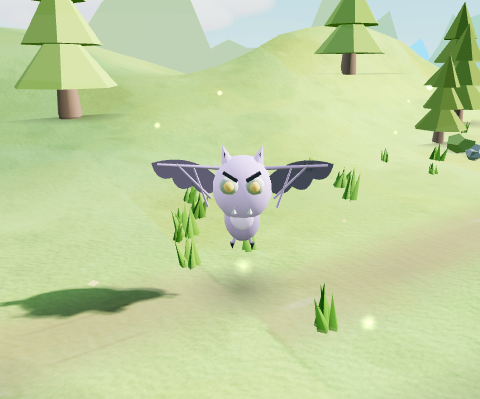
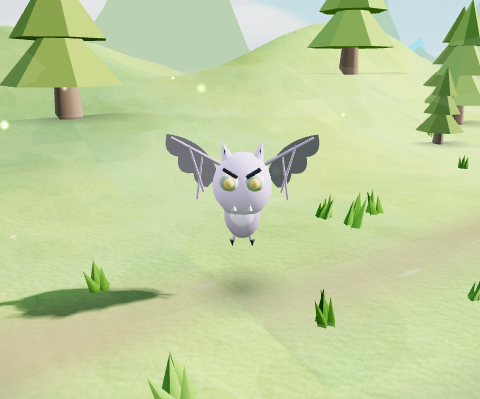
임프 날개 확대·등 뒤 소켓 재배치(몸통 관통 해소)+반투명, 박쥐 날개막 투명도 0.76(불투명 판자 오독)

diff --git a/web/js/scene3d.js b/web/js/scene3d.js
@@ -2968,7 +2968,7 @@ const Scene3D = {
                 cn(0.018, 0.06, s * 0.05, 0.5, 0.14, new THREE.MeshLambertMaterial({ color: 0xffffff })); // 송곳니
                 const wing = new THREE.Group();
                 wing.position.set(s * 0.17, 0.65, 0);
-                const wm = new THREE.Mesh(wingGeo(0.44, 0.3), new THREE.MeshLambertMaterial({ color: base.clone().offsetHSL(0.015, 0.06, -0.06), side: THREE.DoubleSide, transparent: true, opacity: 0.88 })); // 반투명 막 — 판자 오독 제거
+                const wm = new THREE.Mesh(wingGeo(0.44, 0.3), new THREE.MeshLambertMaterial({ color: base.clone().offsetHSL(0.015, 0.06, -0.06), side: THREE.DoubleSide, transparent: true, opacity: 0.76 })); // 반투명 막 — 0.88은 사실상 불투명 판자로 읽힘 (비평가 6.8 8번)
                 wm.scale.x = s;
                 const wBone = mk(new THREE.CylinderGeometry(0.014, 0.01, 0.42, 5), dark); // 앞전 뼈대
                 wBone.rotation.z = s * (Math.PI / 2 - 0.18);
@@ -3198,12 +3198,12 @@ const Scene3D = {
                 bone1.position.set(s * 0.09, 0.05, 0); bone1.rotation.z = s * 1.1;
                 const bone2 = mk(new THREE.CylinderGeometry(0.009, 0.006, 0.16, 5), skinD);
                 bone2.position.set(s * 0.2, 0.02, 0); bone2.rotation.z = s * 1.9;
-                const mem = mk(wingGeo(0.3, 0.22), new THREE.MeshLambertMaterial({ color: base.clone().offsetHSL(0.02, 0.08, -0.04), side: THREE.DoubleSide })); // 몸 색과 이어지는 밝은 막 — 배경에 뭉개짐 방지
+                const mem = mk(wingGeo(0.42, 0.3), new THREE.MeshLambertMaterial({ color: base.clone().offsetHSL(0.02, 0.08, -0.04), side: THREE.DoubleSide, transparent: true, opacity: 0.85 })); // 반투명 막 — 판자 오독 제거, 몸 대비 과소(비행 설득력) 확대 (비평가 6.8 8번)
                 mem.scale.x = s;
                 mem.position.y = 0.08;
                 wing.add(bone1, bone2, mem);
-                wing.position.y = 0.42; // 어깨 높이 — 머리 뒤에서 '대형 귀'로 오독되지 않게 (비평가 지적)
-                wing.rotation.set(0.2, 0, s * 0.8);
+                wing.position.set(s * 0.135, 0.42, -0.13); // 소켓을 등 뒤·바깥으로 — 날개 평면이 몸통을 관통·교차하던 문제
+                wing.rotation.set(0.32, s * -0.25, s * 0.55); // 펼침각 완화 + 뒤로 젖힘
                 wing.userData.s = s;
                 anim.wings.push(wing);
                 g.add(wing);
